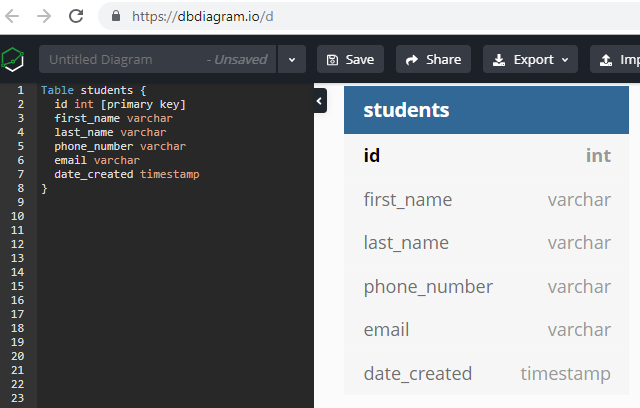
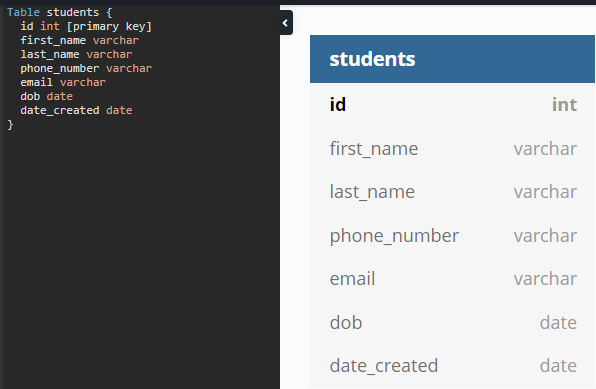
Updated README.md

diff --git a/readme.md b/readme.md
@@ -23,6 +23,10 @@ There are a few items you will need to have prior to commencing this tutorial.
 * Azure Account with active subscription (You can just sign up for a new account for subscription)
 * .NET Core 2.1 SDK or later
 * Postman
+* <a href="https://docs.microsoft.com/en-us/cli/azure/install-azure-cli?view=azure-cli-latest">Azure command line (CLI)</a>
+* <a href="https://dotnet.microsoft.com/download/visual-studio-sdks">DOTNET Core 2.2</a>
+* Don't forget to restart your computer after you've installed all the softwares
+
 
 ## 1.1 Context
 
@@ -45,6 +49,7 @@ In phase 1 we will only focus on creating one table, keep an eye out on phase 2 
  * Last Name
  * Phone Number
  * Email Address
+ * DOB (Date of birth)
  * Date Created
 
  Aside from field names, we also need to consider their types. For example, it is normal to store *id* as integers, but it doesn't make sense to only allow numbers to be stored in the *name* fields. 
@@ -52,7 +57,7 @@ In phase 1 we will only focus on creating one table, keep an eye out on phase 2 
 There are many data types available in SQL, the ones we will be using are:
  * VARCHAR
  * INT
- * TIMESTAMP
+ * DATE
 
  >You can read more about data types on 
  https://www.w3schools.com/sql/sql_datatypes.asp
@@ -70,6 +75,73 @@ This diagram may look redundant/hollow as of now because there is only one table
 
 Noticed how the fields have the same naming convention? Each word is separated with underscore. Having the same naming convention would add consistency throughout the database.
 
+## 3. Azure SQL Database
+Now that we have finished planning for the database, we can actually create it on Azure portal!
+
+Make sure you have an active subscription, navigate to https://portal.azure.com on your browser and search for a new service resource called "SQL databases"
+ ![image](img/MSAMSMAMS/sqlService.PNG)
+
+ Then click on Add then follow the structure below
+  ![image](img/MSAMSMAMS/createDB.PNG)
+
+  When you are creating a new server, choose a sensible server name and note down your database admin login and password, we will need to use it later. Choose Australis Southeast Location as it is physically closest to us.
+  ![image](img/MSAMSMAMS/newRS.PNG)
+
+  When it comes to choosing Compute + storage, select the free/cheapest option
+  ![image](img/MSAMSMAMS/configureServer.PNG)
+
+  When you are done, cliD on Review + create then your deployment sDuld be underway!
+
+  In about 2 minutes, yoDshould see the following notificationD
+  ![image](img/MSAMSMAMS/deploymentDone.PNG)
+
+  Now that the database is created, we shall create the table we've designed earlier in the database. Click on your new SQL Database resource
+  ![image](img/MSAMSMAMS/viewResource.PNG)
+
+  From the tool bar on the left, choose Query Editor.
+  ![image](img/MSAMSMAMS/queryEditor.PNG)
+  
+  Remember your database admin login and password? Pop those in.
+
+  We are now going to use standard SQL statement to create a new table (notice how similar this SQL statement is compared to the design we did on dbDiagram?):
+  ```
+    CREATE TABLE [students]
+    (
+        id INT NOT NULL IDENTITY(1, 1) PRIMARY KEY,
+        first_name VARCHAR(50),
+        last_name VARCHAR(50),
+        phone_number VARCHAR(20),
+        email VARCHAR(50),
+        dob DATE,
+        date_created DATE
+    );
+  ```
+
+  Hit the Run button then you should see the following message:
+  ![image](img/MSAMSMAMS/createTable.PNG)
+
+  Our database is basically done. We just need to do two more things to allow us to access the database from anywhere.
+
+  Go back to Overview and hit "Set server firewall"
+  ![image](img/MSAMSMAMS/serverFirewall.PNG)
+  Add the following firewall rule to enable access to the database from any IP address.
+  ![image](img/MSAMSMAMS/firewallRule.PNG)
+  Then hit Save.
+
+  One more thing. 
+  Choose Connection Strings from the toolbar and copy ADO.NET connection string, we will use this to scaffold the database when we are creating the API.
+  ![image](img/MSAMSMAMS/connectionString.PNG)
+
+  Now we are ready to go to the next phase.
+
+## 4. Create the API using .NET Core
+
+
+
+
+
+
+
 ---
 TO BE WORKED ON
 ```
@@ -80,7 +152,8 @@ CREATE TABLE [students]
     last_name VARCHAR(50),
     phone_number VARCHAR(20),
     email VARCHAR(50),
-    date_created TIMESTAMP
+    dob DATE,
+    date_created DATE
 );
 ```
  
